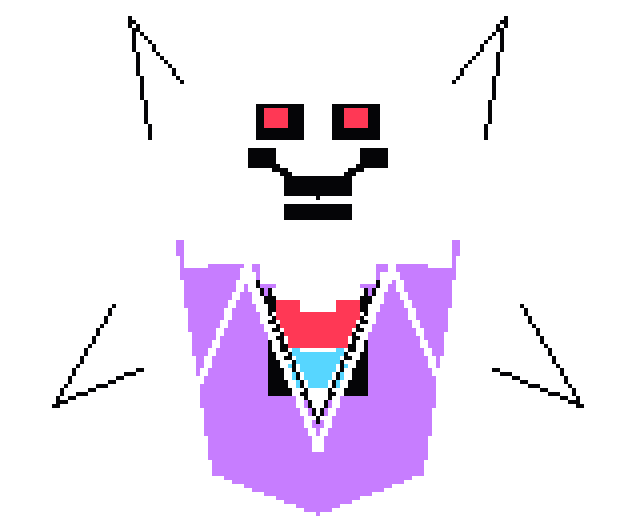
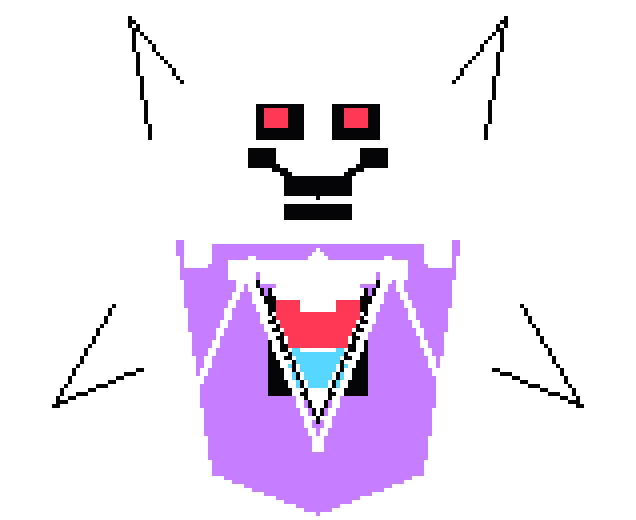
Sharpen asgore and asriel reads

Changed region(s): [[0.3286, 0.4615, 0.6871, 0.5538]]

diff --git a/script.js b/script.js
@@ -1203,6 +1203,13 @@ function asgorePattern(dt) {
       if (state.wave === 2) spawn("trident", { x: arena.x + arena.w + 60, y: arena.y + arena.h * (1 - lane), vx: -472, vy: 0, r: 22, angle: Math.PI, delay: intensityRange(0.48, 0.32) });
     }
   }
+  if (state.wave === 1 && every("asgore-trident-pinch", 1.36 - progress * 0.12, dt)) {
+    const index = sequenceIndex(1.36 - progress * 0.12);
+    const lane = [0.26, 0.74, 0.42, 0.58][index % 4];
+    const y = arena.y + arena.h * lane;
+    spawn("trident", { x: arena.x - 58, y, vx: 430 + progress * 46, vy: 0, r: 22, angle: 0, delay: intensityRange(0.44, 0.3) });
+    spawn("trident", { x: arena.x + arena.w + 58, y: arena.y + arena.h * (1 - lane), vx: -430 - progress * 46, vy: 0, r: 22, angle: Math.PI, delay: intensityRange(0.44, 0.3) });
+  }
   if (state.wave === 2 && every("flame-curtain", 0.42, dt)) {
     const gap = arena.x + arena.w * ([0.25, 0.5, 0.75, 0.4, 0.62][sequenceIndex(0.42) % 5]);
     for (let i = 0; i < 8; i++) {
@@ -1584,6 +1591,12 @@ function asrielPattern(dt) {
       spawn("saber", { x: fromLeft ? arena.x - 58 : arena.x + arena.w + 58, y: arena.y + arena.h * lane, vx: fromLeft ? 470 : -470, vy: 0, r: 22, angle: fromLeft ? 0 : Math.PI, delay: intensityRange(0.42, 0.28) });
     }
   }
+  if (state.wave === 1 && every("asriel-saber-cross", 1.34 - progress * 0.1, dt)) {
+    const index = sequenceIndex(1.34 - progress * 0.1);
+    const lane = [0.3, 0.7, 0.48, 0.58][index % 4];
+    spawn("saber", { x: arena.x - 58, y: arena.y + arena.h * lane, vx: 486 + progress * 38, vy: 0, r: 22, angle: 0, delay: intensityRange(0.38, 0.26) });
+    if (index % 2 === 0) spawn("saber", { x: arena.x + arena.w + 58, y: arena.y + arena.h * (1 - lane), vx: -486 - progress * 38, vy: 0, r: 22, angle: Math.PI, delay: intensityRange(0.46, 0.32) });
+  }
   if (state.wave === 2 && every("asriel-hope", 1.12, dt)) {
     const skip = sequenceIndex(1.12) % 8;
     for (let i = 0; i < 8; i++) {
@@ -1591,6 +1604,12 @@ function asrielPattern(dt) {
       const a = (Math.PI * 2 * i) / 8 - t * 0.55;
       spawn("diamond", { x: arena.x + arena.w / 2, y: arena.y + arena.h / 2, vx: Math.cos(a) * 174, vy: Math.sin(a) * 174, r: 10, spin: -4 });
     }
+  }
+  if (state.wave === 2 && every("asriel-dream-rain", 0.62 - progress * 0.08, dt)) {
+    const index = sequenceIndex(0.62 - progress * 0.08);
+    const lanes = [0.2, 0.36, 0.52, 0.68, 0.84, 0.44, 0.6];
+    const x = arena.x + arena.w * lanes[index % lanes.length];
+    spawn("diamond", { x, y: arena.y - 22, vx: index % 2 ? 34 : -34, vy: 220 + progress * 42, r: 9, spin: -3.6 });
   }
   if (state.wave === 2 && every("asriel-shocker", 1.48 - progress * 0.14, dt)) {
     const index = sequenceIndex(1.48 - progress * 0.14);

diff --git a/tools/generate_boss_portraits.py b/tools/generate_boss_portraits.py
@@ -267,6 +267,9 @@ def asgore():
     d = ImageDraw.Draw(img)
     line(d, [(58, 23), (25, 0), (33, 47)], GOLD, 5)
     line(d, [(102, 23), (135, 0), (127, 47)], GOLD, 5)
+    rect(d, (70, 4, 90, 9), GOLD)
+    rect(d, (74, 0, 79, 10), GOLD)
+    rect(d, (82, 0, 87, 10), GOLD)
     line(d, [(51, 23), (25, 8), (32, 40)], BLACK, 2)
     line(d, [(109, 23), (135, 8), (128, 40)], BLACK, 2)
     poly(d, [(45, 24), (62, 8), (98, 8), (115, 24), (106, 51), (80, 63), (54, 51)], WHITE)
@@ -282,6 +285,8 @@ def asgore():
     line(d, [(68, 43), (80, 49), (92, 43)], BLACK, 2)
     rect(d, (58, 54, 102, 63), WHITE)
     rect(d, (67, 56, 93, 60), BLACK)
+    rect(d, (60, 50, 100, 55), GOLD)
+    rect(d, (64, 56, 96, 62), BLACK)
     line(d, [(27, 69), (57, 54), (103, 54), (133, 69)], WHITE, 5)
     poly(d, [(32, 70), (128, 70), (113, 121), (80, 129), (47, 121)], WHITE)
     shirt_panel(d, 56, 74, 104, 116, BLACK, WHITE)
@@ -292,6 +297,8 @@ def asgore():
     line(d, [(56, 74), (80, 121), (104, 74)], GOLD, 2)
     rect(d, (72, 83, 88, 88), GOLD)
     rect(d, (75, 86, 85, 111), GOLD)
+    rect(d, (68, 92, 92, 98), GOLD)
+    rect(d, (74, 98, 86, 108), BLACK)
     poly(d, [(52, 72), (20, 126), (55, 122)], WHITE)
     poly(d, [(108, 72), (140, 126), (105, 122)], WHITE)
     line(d, [(80, 74), (80, 119)], YELLOW, 3)
@@ -365,6 +372,8 @@ def asriel():
     d = ImageDraw.Draw(img)
     line(d, [(56, 18), (34, 0), (42, 36)], WHITE, 4)
     line(d, [(104, 18), (126, 0), (118, 36)], WHITE, 4)
+    rect(d, (69, 8, 91, 12), WHITE)
+    rect(d, (74, 4, 86, 8), WHITE)
     line(d, [(46, 20), (33, 4), (38, 34)], BLACK, 1)
     line(d, [(114, 20), (127, 4), (122, 34)], BLACK, 1)
     poly(d, [(50, 23), (65, 10), (95, 10), (110, 23), (101, 46), (80, 55), (59, 46)], WHITE)
@@ -385,6 +394,8 @@ def asriel():
     poly(d, [(45, 60), (115, 60), (106, 118), (80, 128), (54, 118)], PURPLE)
     rect(d, (47, 60, 113, 66), WHITE)
     rect(d, (53, 66, 107, 72), PURPLE)
+    rect(d, (54, 61, 106, 65), PURPLE)
+    rect(d, (58, 65, 102, 69), WHITE)
     shirt_panel(d, 63, 68, 97, 102, BLACK, PURPLE)
     poly(d, [(69, 72), (80, 104), (91, 72), (80, 62)], WHITE)
     rect(d, (70, 75, 90, 82), RED)

diff --git a/README.md b/README.md
@@ -57,6 +57,7 @@ Asgore, Disbelief Papyrus, Omega Flowey, and the Bad Time Trio now have sharper 
 Sans and Asriel now have clearer hand-placed face, clothing, and emblem details, while Undyne's green-heart cyclone adds shield-direction chords and Omega Flowey's vine cage adds faster seed pellets.
 Undyne the Undying and Mettaton now have stronger face/core/armor pixel reads, with a new original Undying spear-ring salvo and faster Mettaton ratings pellets in their final waves.
 Disbelief Papyrus and Bad Time Trio now have sharper Papyrus face/body pixels, plus new original final-wave bone-fan and synchronized trio burst patterns with readable safe gaps.
+Asgore and Asriel now have stronger crown/robe/halo-style pixel cues, plus original trident-pinch, saber-cross, and dream-rain pressure for closer mid/final wave practice.
 Dynamic wave ramps use staged opener/build/finale intensity, so attacks start readable and tighten toward the end instead of changing at one flat rate.
 Weapon warnings and hazard telegraphs also follow that intensity curve, giving longer reads at the start of a turn and quicker warnings during the finale.
 Pattern sequencing now advances with the tuned spawn rate, so faster waves use the intended ordered reads instead of repeating lanes; Sans, Undyne, Undying, Asgore, Omega, Asriel, Mettaton, and Disbelief patterns have tighter speeds and more source-style safe gaps.
